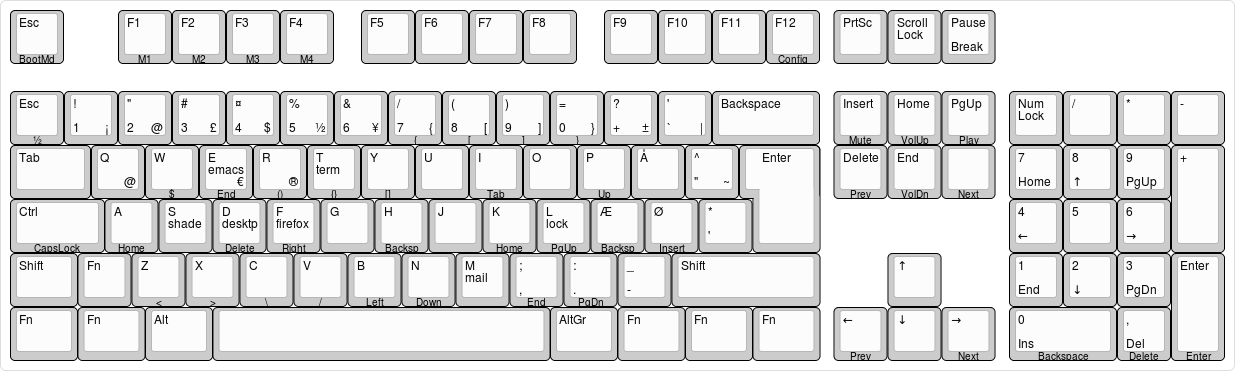
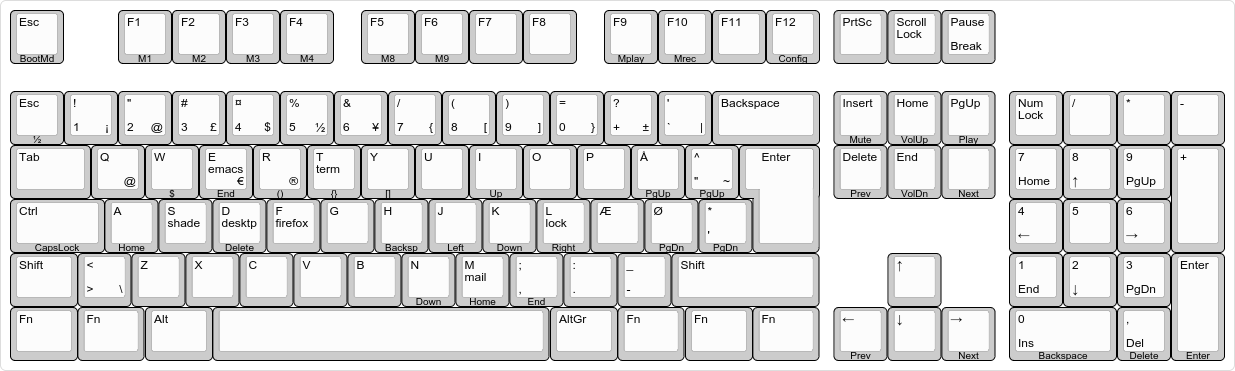
Updated Filco Majestouch-2 full size

diff --git a/README.md b/README.md
@@ -7,7 +7,7 @@ Files related to mechanical keyboards and typing.
 
 ## Keyboard, FILCO Majestouch-2
 
-My [FILCO, Majestouch-2, full size (105 keys), Cherry MX Blue switches, ISO Danish layout](http://www.keyboard-layout-editor.com/##@_backcolor=#ffffff&name=FILCO,%20Majestouch-2,%20full%20size&author=Thomas%20B%C3%B8vith&switchMount=cherry&switchBrand=cherry&switchType=MX1A-E1xx;&@=Esc%0A%0A%0A%0ABootMd&_x:1;&=F1%0A%0A%0A%0AM1&=F2%0A%0A%0A%0AM2&=F3%0A%0A%0A%0AM3&=F4%0A%0A%0A%0AM4&_x:0.5;&=F5&=F6&=F7&=F8&_x:0.5;&=F9&=F10&=F11&=F12%0A%0A%0A%0AConfig&_x:0.25;&=PrtSc&=Scroll%20Lock&=Pause%0ABreak;&@_y:0.5;&=Esc%0A%0A%0A%0A%C2%BD&=!%0A1%0A%0A%C2%A1&=%22%0A2%0A%0A/@&=#%0A3%0A%0A%C2%A3&=%C2%A4%0A4%0A%0A$&=%25%0A5%0A%0A%C2%BD&=/&%0A6%0A%0A%C2%A5&=//%0A7%0A%0A%7B%0A%7B&=(%0A8%0A%0A%5B%0A%5B&=)%0A9%0A%0A%5D%0A%5D&=/=%0A0%0A%0A%7D%0A%7D&=?%0A+%0A%0A%C2%B1&=%27%0A%60%0A%0A%7C&_w:2;&=Backspace&_x:0.25;&=Insert%0A%0A%0A%0AMute&=Home%0A%0A%0A%0AVolUp&=PgUp%0A%0A%0A%0APlay&_x:0.25;&=Num%20Lock&=//&=*&=-;&@_w:1.5;&=Tab&=Q%0A%0A%0A/@&=W%0A%0A%0A%0A$&=E%0A%0A%0A%E2%82%AC%0AEnd%0A%0Aemacs&=R%0A%0A%0A%C2%AE%0A()&=T%0A%0A%0A%0A%7B%7D%0A%0Aterm&=Y%0A%0A%0A%0A%5B%5D&=U&=I%0A%0A%0A%0ATab&=O&=P%0A%0A%0A%0AUp&=%C3%85&=%5E%0A%22%0A%0A~&_x:0.25&w:1.25&h:2&w2:1.5&h2:1&x2:-0.25;&=Enter&_x:0.25;&=Delete%0A%0A%0A%0APrev&=End%0A%0A%0A%0AVolDn&_a:7;&=%0A%0A%0A%0ANext&_x:0.25&a:4;&=7%0AHome&=8%0A%E2%86%91&=9%0APgUp&_h:2;&=+;&@_w:1.75;&=Ctrl%0A%0A%0A%0ACapsLock&=A%0A%0A%0A%0AHome&=S%0A%0A%0A%0A%0A%0Ashade&=D%0A%0A%0A%0ADelete%0A%0Adesktp&=F%0A%0A%0A%0ARight%0A%0Afirefox&=G&=H%0A%0A%0A%0ABacksp&=J&=K%0A%0A%0A%0AHome&=L%0A%0A%0A%0APgUp%0A%0Alock&=%C3%86%0A%0A%0A%0ABacksp&=%C3%98%0A%0A%0A%0AInsert&=*%0A%27&_x:4.75;&=4%0A%E2%86%90&=5&=6%0A%E2%86%92;&@_w:1.25;&=Shift&=Fn&=Z%0A%0A%0A%0A%3C&=X%0A%0A%0A%0A%3E&=C%0A%0A%0A%0A%5C&=V%0A%0A%0A%0A//&=B%0A%0A%0A%0ALeft&=N%0A%0A%0A%0ADown&=M%0A%0A%0A%0A%0A%0Amail&=/;%0A,%0A%0A%0AEnd&=/:%0A.%0A%0A%0APgDn&=/_%0A-&_w:2.75;&=Shift&_x:1.25;&=%E2%86%91&_x:1.25;&=1%0AEnd&=2%0A%E2%86%93&=3%0APgDn&_h:2;&=Enter%0A%0A%0A%0AEnter;&@_w:1.25;&=Fn&_w:1.25;&=Fn&_w:1.25;&=Alt&_a:7&w:6.25;&=&_a:4&w:1.25;&=AltGr&_w:1.25;&=Fn&_w:1.25;&=Fn&_w:1.25;&=Fn&_x:0.25;&=%E2%86%90%0A%0A%0A%0APrev&=%E2%86%93&=%E2%86%92%0A%0A%0A%0ANext&_x:0.25&w:2;&=0%0AIns%0A%0A%0ABackspace&=,%0ADel%0A%0A%0ADelete) made with [Keyboard Layout Editor](http://www.keyboard-layout-editor.com/)
+My [FILCO, Majestouch-2, full size (105 keys), Cherry MX Blue switches, ISO Danish layout](http://www.keyboard-layout-editor.com/##@_backcolor=#ffffff&name=FILCO,%20Majestouch-2,%20full%20size&author=Thomas%20B%C3%B8vith&switchMount=cherry&switchBrand=cherry&switchType=MX1A-E1xx;&@=Esc%0A%0A%0A%0ABootMd&_x:1;&=F1%0A%0A%0A%0AM1&=F2%0A%0A%0A%0AM2&=F3%0A%0A%0A%0AM3&=F4%0A%0A%0A%0AM4&_x:0.5;&=F5%0A%0A%0A%0AM8&=F6%0A%0A%0A%0AM9&=F7&=F8&_x:0.5;&=F9%0A%0A%0A%0AMplay&=F10%0A%0A%0A%0AMrec&=F11&=F12%0A%0A%0A%0AConfig&_x:0.25;&=PrtSc&=Scroll%20Lock&=Pause%0ABreak;&@_y:0.5;&=Esc%0A%0A%0A%0A%C2%BD&=!%0A1%0A%0A%C2%A1&=%22%0A2%0A%0A/@&=#%0A3%0A%0A%C2%A3&=%C2%A4%0A4%0A%0A$&=%25%0A5%0A%0A%C2%BD&=/&%0A6%0A%0A%C2%A5&=//%0A7%0A%0A%7B&=(%0A8%0A%0A%5B&=)%0A9%0A%0A%5D&=/=%0A0%0A%0A%7D&=?%0A+%0A%0A%C2%B1&='%0A%60%0A%0A%7C&_w:2;&=Backspace&_x:0.25;&=Insert%0A%0A%0A%0AMute&=Home%0A%0A%0A%0AVolUp&=PgUp%0A%0A%0A%0APlay&_x:0.25;&=Num%20Lock&=//&=*&=-;&@_w:1.5;&=Tab&=Q%0A%0A%0A/@&=W%0A%0A%0A%0A$&=E%0A%0A%0A%E2%82%AC%0AEnd%0A%0Aemacs&=R%0A%0A%0A%C2%AE%0A()&=T%0A%0A%0A%0A%7B%7D%0A%0Aterm&=Y%0A%0A%0A%0A%5B%5D&=U&=I%0A%0A%0A%0AUp&=O&=P&=%C3%85%0A%0A%0A%0APgUp&=%5E%0A%22%0A%0A~%0APgUp&_x:0.25&w:1.25&h:2&w2:1.5&h2:1&x2:-0.25;&=Enter&_x:0.25;&=Delete%0A%0A%0A%0APrev&=End%0A%0A%0A%0AVolDn&_a:7;&=%0A%0A%0A%0ANext&_x:0.25&a:4;&=7%0AHome&=8%0A%E2%86%91&=9%0APgUp&_h:2;&=+;&@_w:1.75;&=Ctrl%0A%0A%0A%0ACapsLock&=A%0A%0A%0A%0AHome&=S%0A%0A%0A%0A%0A%0Ashade&=D%0A%0A%0A%0ADelete%0A%0Adesktp&=F%0A%0A%0A%0A%0A%0Afirefox&=G&=H%0A%0A%0A%0ABacksp&=J%0A%0A%0A%0ALeft&=K%0A%0A%0A%0ADown&=L%0A%0A%0A%0ARight%0A%0Alock&=%C3%86&=%C3%98%0A%0A%0A%0APgDn&=*%0A'%0A%0A%0APgDn&_x:4.75;&=4%0A%E2%86%90&=5&=6%0A%E2%86%92;&@_w:1.25;&=Shift&=%3C%0A%3E%0A%0A%5C&=Z&=X&=C&=V&=B&=N%0A%0A%0A%0ADown&=M%0A%0A%0A%0AHome%0A%0Amail&=/;%0A,%0A%0A%0AEnd&=/:%0A.&=/_%0A-&_w:2.75;&=Shift&_x:1.25;&=%E2%86%91&_x:1.25;&=1%0AEnd&=2%0A%E2%86%93&=3%0APgDn&_h:2;&=Enter%0A%0A%0A%0AEnter;&@_w:1.25;&=Fn&_w:1.25;&=Fn&_w:1.25;&=Alt&_a:7&w:6.25;&=&_a:4&w:1.25;&=AltGr&_w:1.25;&=Fn&_w:1.25;&=Fn&_w:1.25;&=Fn&_x:0.25;&=%E2%86%90%0A%0A%0A%0APrev&=%E2%86%93&=%E2%86%92%0A%0A%0A%0ANext&_x:0.25&w:2;&=0%0AIns%0A%0A%0ABackspace&=,%0ADel%0A%0A%0ADelete) made with [Keyboard Layout Editor](http://www.keyboard-layout-editor.com/)
 
 ![My FILCO Majestouch-2 full size layout](keyboard_majestouch-2/keyboard-layout.png)
 
